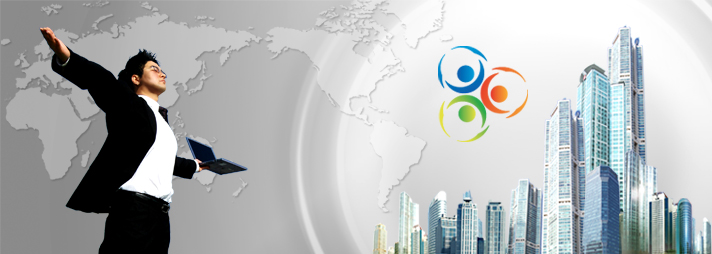
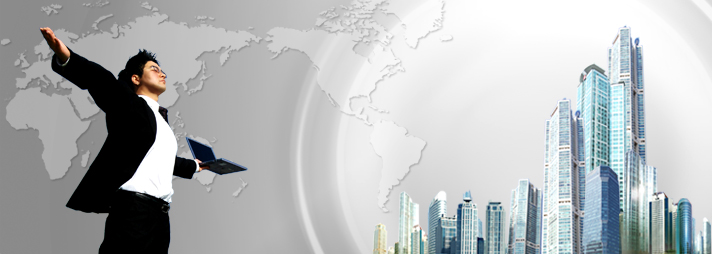
SOC-910: Apply new brand
git-svn-id: http://svn.exoplatform.org/projects/social/trunk@48690 42d3c691-033b-0410-95b4-af486b8189e5

Changed region(s): [[0.618, 0.1654, 0.7416, 0.5236], [0.6489, 0.5236, 0.6798, 0.5787], [0.6798, 0.4961, 0.7107, 0.5236]]

diff --git a/portlet/space/src/main/webapp/skin/portal/webui/component/UIBannerPortlet/DefaultStylesheet.css b/portlet/space/src/main/webapp/skin/portal/webui/component/UIBannerPortlet/DefaultStylesheet.css
@@ -18,7 +18,7 @@
 	overflow: auto;
 }
 .UIBannerPortlet .LogoBlock {
-  background: url('DefaultSkin/background/LogoSocial.gif') no-repeat left bottom;
+  background: url('DefaultSkin/background/SocialLogo.png') no-repeat left bottom;
 	display: block;
 	float: left;
 	height: 43px;
@@ -89,7 +89,7 @@
   font-size: 10px;
   display: block;
 }
- 
+
 .UIBannerPortlet .MiddleLoginContainer .Language {
   background: none;
   cursor: pointer;
@@ -101,9 +101,9 @@
 }
 
 .UIBannerPortlet .MiddleLoginContainer .Register {
-	margin-right: 15px;	
+	margin-right: 15px;
 	cursor: pointer;
-	float: left;	 	
+	float: left;
 	font-weight: bold;
 	display: block;
 	line-height: 17px;
